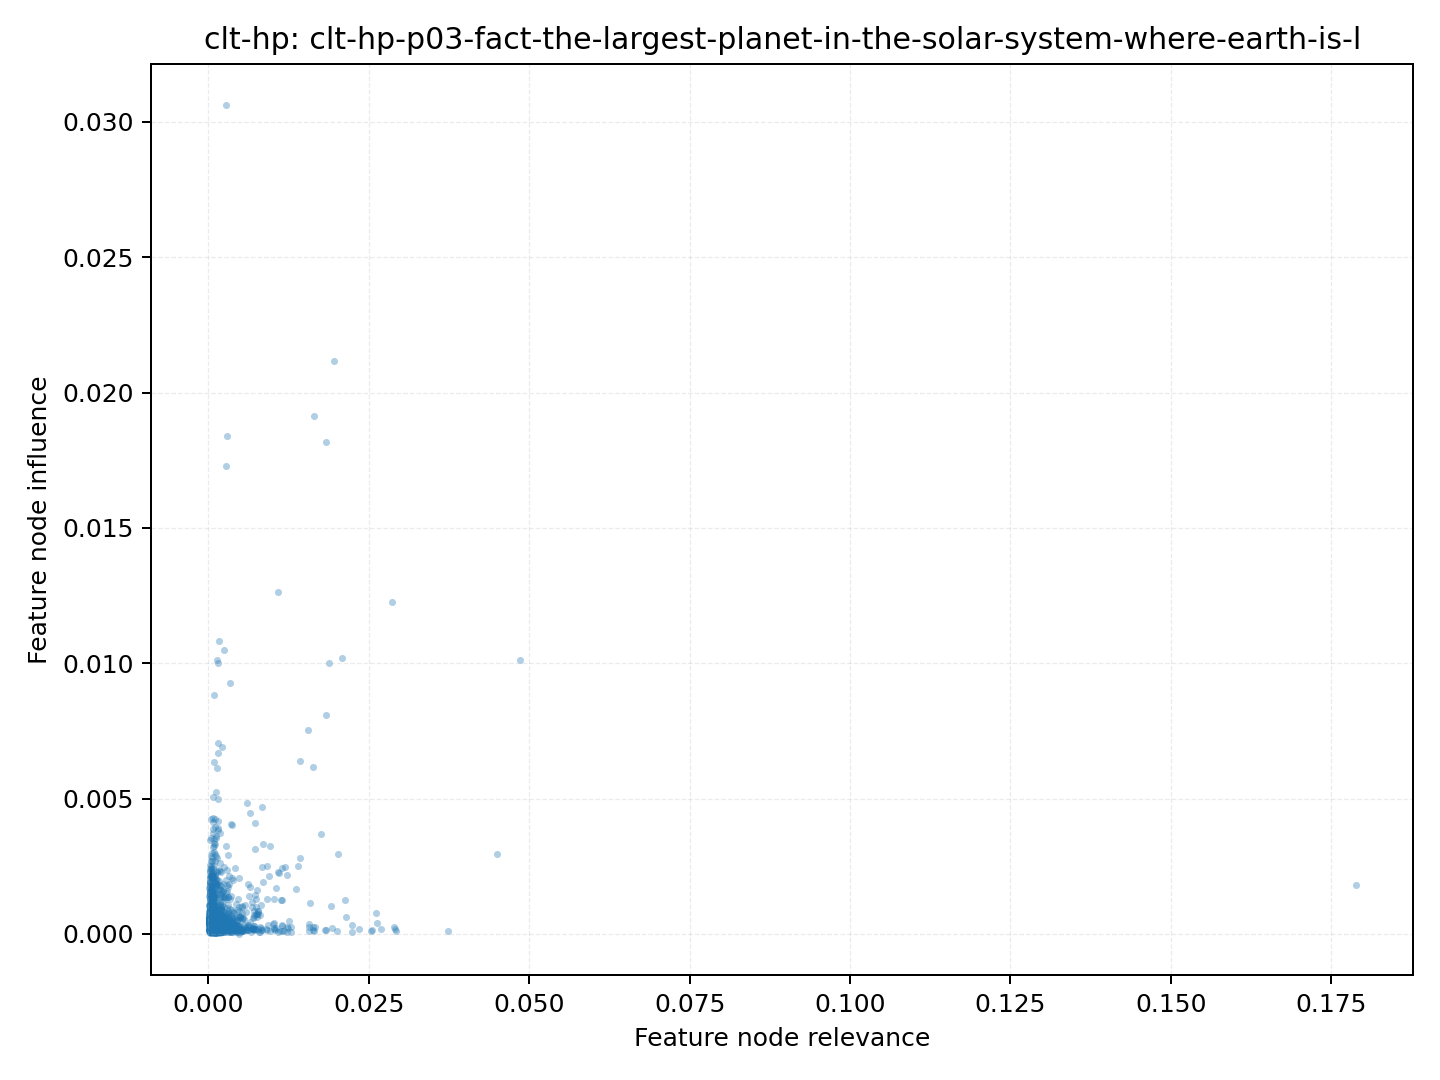
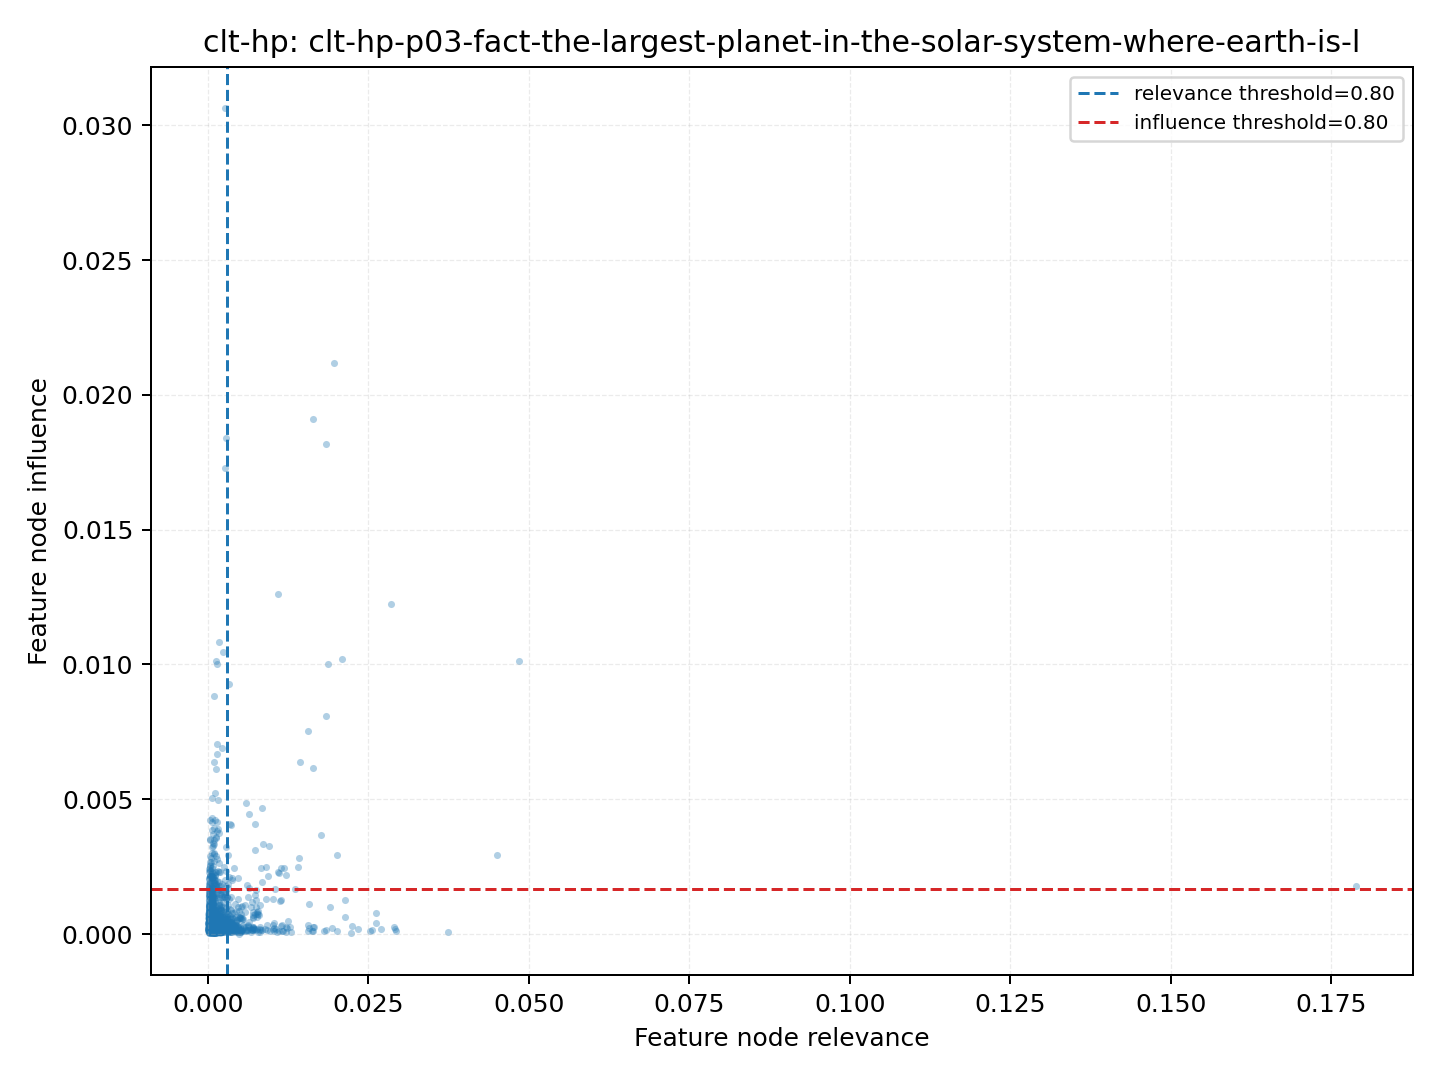
updated plots

diff --git a/demos/prune_experiment.py b/demos/prune_experiment.py
@@ -17,6 +17,7 @@ if str(_ROOT) not in sys.path:
 from summarization.prune import prune_combined
 from summarization.token_attribution import get_token_attribution_from_graph
 from summarization.utils import _build_index_sets, get_data_from_json
+from circuit_tracer.graph import find_threshold
 
 
 DEFAULT_INPUT_ROOT = Path("demos") / "temp_graph_files"
@@ -198,6 +199,8 @@ def run_single_graph(
 
     feature_influence = _to_numpy(node_influence[feature_indices])
     feature_relevance = _to_numpy(node_relevance[feature_indices])
+    relevance_cutoff = float(find_threshold(node_relevance, node_threshold).item())
+    influence_cutoff = float(find_threshold(node_influence, node_threshold).item())
 
     output_dir = output_root / source_set
     output_dir.mkdir(parents=True, exist_ok=True)
@@ -211,6 +214,20 @@ def run_single_graph(
         alpha=0.35,
         linewidths=0,
     )
+    ax.axvline(
+        relevance_cutoff,
+        color="tab:blue",
+        linestyle="--",
+        linewidth=1.2,
+        label=f"relevance threshold={node_threshold:.2f}",
+    )
+    ax.axhline(
+        influence_cutoff,
+        color="tab:red",
+        linestyle="--",
+        linewidth=1.2,
+        label=f"influence threshold={node_threshold:.2f}",
+    )
 
     if _should_use_log_scale(feature_relevance):
         ax.set_xscale("log")
@@ -221,6 +238,7 @@ def run_single_graph(
     ax.set_ylabel("Feature node influence")
     ax.set_title(f"{source_set}: {graph_path.stem}")
     ax.grid(alpha=0.25, linestyle="--", linewidth=0.5)
+    ax.legend(loc="best", fontsize=8)
     fig.tight_layout()
     fig.savefig(output_path, dpi=180)
     plt.close(fig)
